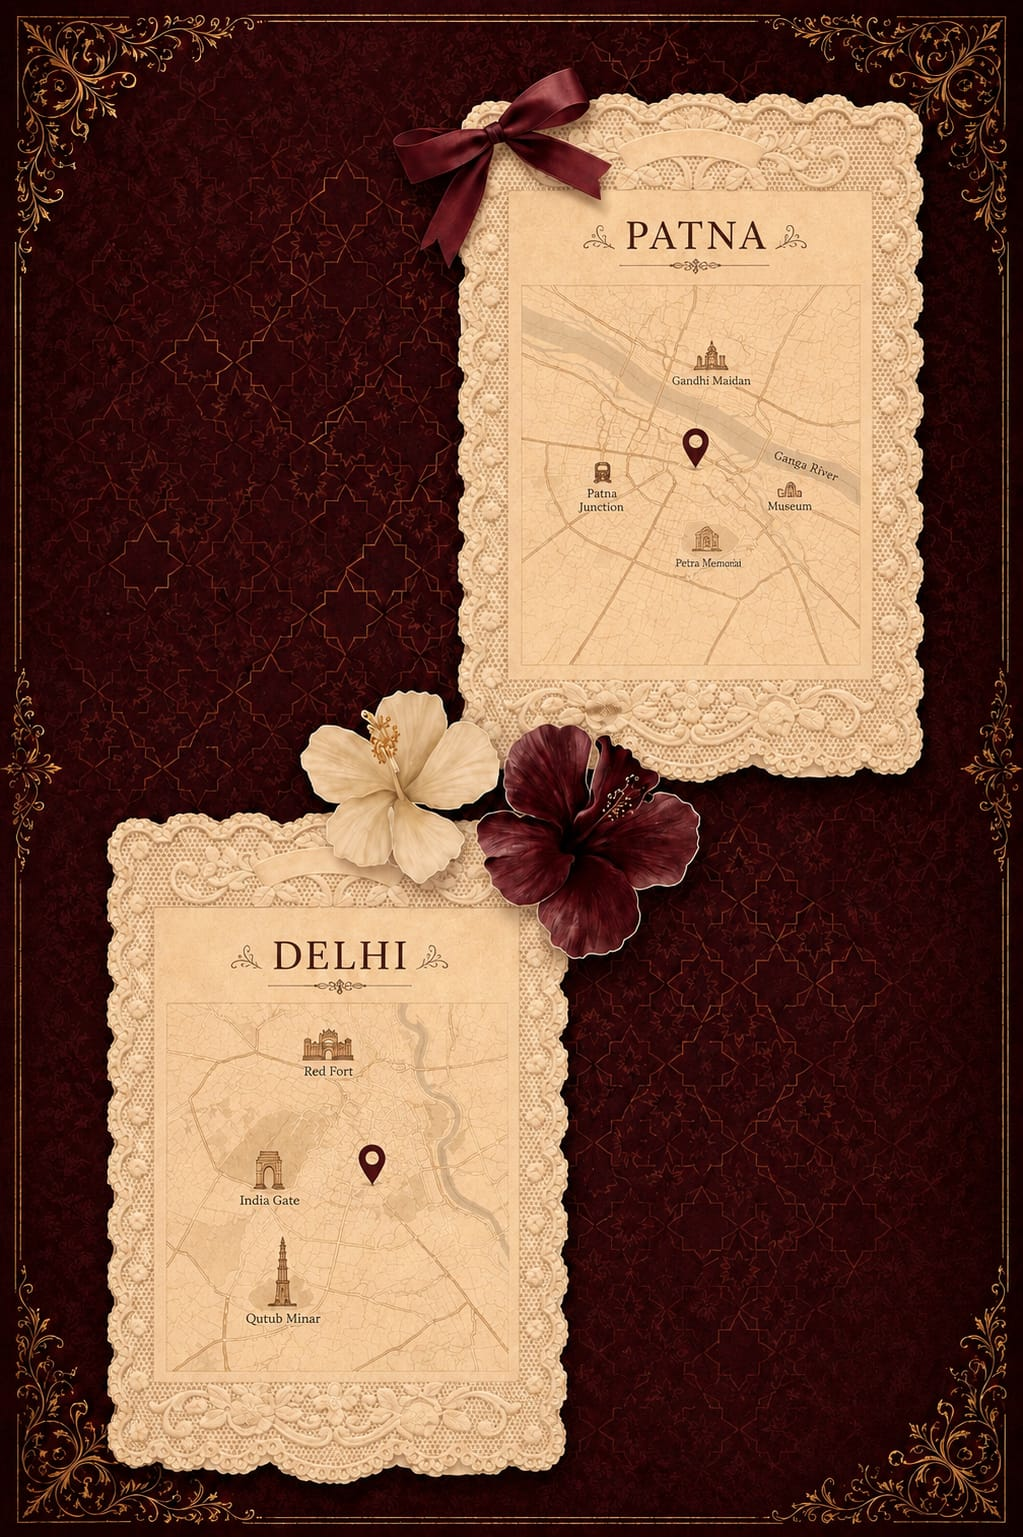
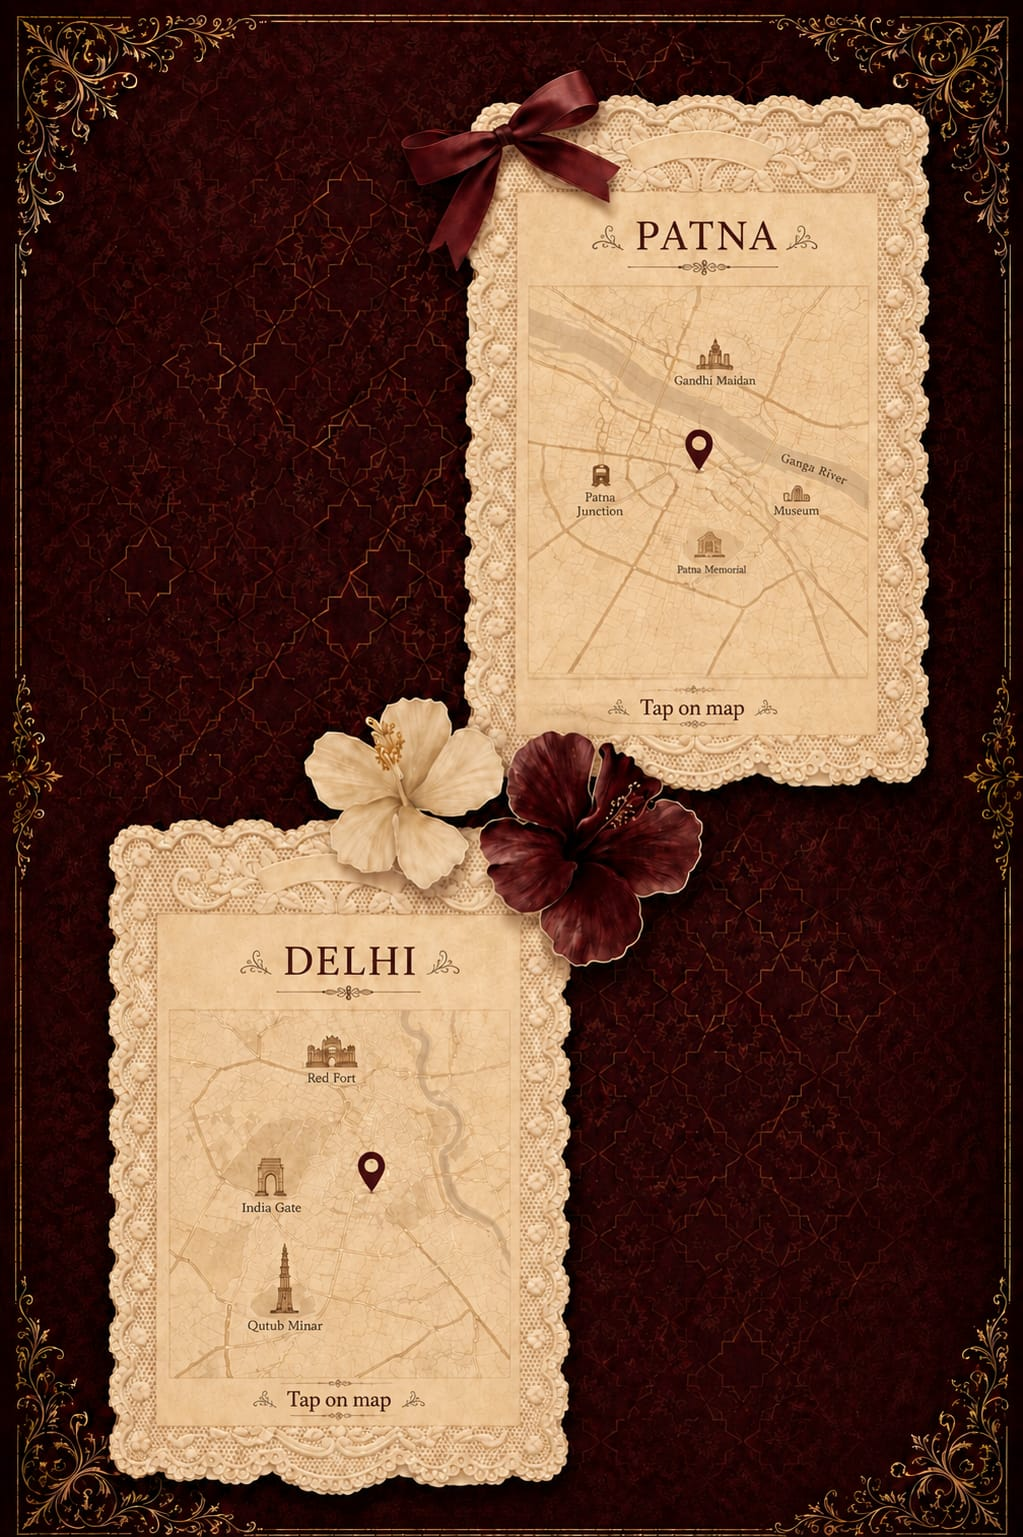
updated invitation website

diff --git a/invitation.html b/invitation.html
@@ -4,6 +4,7 @@
 <meta charset="UTF-8">
 <meta name="viewport" content="width=device-width, initial-scale=1.0, viewport-fit=cover">
 <title>Osama & Sana | The Celebrations</title>
+<link href="https://fonts.googleapis.com/css2?family=Cinzel:wght@400;600&display=swap" rel="stylesheet">
 <style>
   *{box-sizing:border-box; margin:0; padding:0;}
   html,body{ width:100%; background:#1c0306; }
@@ -38,7 +39,6 @@
   }
   .hot:active{ background:rgba(227,201,138,.12); }
 
-  /* city maps (Patna & Delhi) — tap zones over each lace-framed card */
   #linkPatna{
     left:44.97%;
     width:45.94%;
@@ -54,7 +54,6 @@
     border-radius:18px;
   }
 
-  /* back button to return to the hero page */
   #backHome{
     position:fixed;
     top:16px;
@@ -76,7 +75,6 @@
   }
   #backHome:focus-visible{ outline:2px solid #e3c98a; outline-offset:3px; }
 
-  /* back-to-top control, appears once scrolled down */
   #backTop{
     position:fixed;
     right:16px;
@@ -100,63 +98,141 @@
   }
   #backTop.show{ opacity:1; pointer-events:auto; }
   #backTop:focus-visible{ outline:2px solid #e3c98a; outline-offset:3px; }
+
+  /* ── each number pinned to the center of its own box ── */
+  .cd-num {
+    position: absolute;
+    font-family: 'Cinzel', serif;
+    font-weight: 600;
+    font-size: clamp(18px, 12vw, 60px);
+    color: #3b1505;
+    line-height: 1;
+    transition: opacity .15s ease;
+    transform: translate(-50%, -50%);
+    pointer-events: none;
+  }
+  .cd-num.flip { opacity: 0.2; }
+
+  /* adjust top/left to hit exact center of each golden box */
+  #cd-days  { top: 84%; left: 24%; }
+  #cd-hours { top: 84%; left: 41%; }
+  #cd-mins  { top: 84%; left: 56%; }
+  #cd-secs  { top: 84%; left: 73%; }
 </style>
 </head>
 <body>
 
   <a id="backHome" href="index.html" aria-label="Back to start">‹</a>
 
-  <!-- Osama & Sana / Nikah & Walima dates -->
+  <!-- Slide 1: Intro -->
   <div class="shot" id="intro">
     <img src="assets/intro.jpg" alt="Osama and Sana — Nikah 11th November 2026, Walima 15th November 2026">
   </div>
 
-  <!-- Nikah & Walima full details -->
+  <!-- Slide 2: Celebrations -->
   <div class="shot" id="celebrations">
     <img src="assets/celebrations.jpg" alt="Nikah and Walima ceremony details, dates, times and venue">
   </div>
 
-  <!-- City maps — Patna & Delhi -->
+  <!-- Slide 3: City Maps -->
   <div class="shot" id="cityMaps">
     <img src="assets/citymaps.jpg" alt="Illustrated maps of Patna and Delhi">
     <a class="hot" id="linkPatna" href="#" target="_blank" rel="noopener" aria-label="Open Patna location in Google Maps"></a>
     <a class="hot" id="linkDelhi" href="#" target="_blank" rel="noopener" aria-label="Open Delhi location in Google Maps"></a>
   </div>
 
-  <!-- Closing note -->
+  <!-- Slide 4: Countdown — numbers go inside the 4 golden boxes -->
   <div class="shot" id="closing">
-    <img src="assets/closing.jpg" alt="Waiting for your gracious presence — join us in our celebration, with best compliments from family, relatives and friends">
+    <img src="assets/countdown.jpg" alt="Waiting for your gracious presence — Until we say Qubool Hai">
+    <span class="cd-num" id="cd-days">--</span>
+    <span class="cd-num" id="cd-hours">--</span>
+    <span class="cd-num" id="cd-mins">--</span>
+    <span class="cd-num" id="cd-secs">--</span>
+  </div>
+
+  <!-- Slide 5: Quranic verse -->
+  <div class="shot" id="lastSlide">
+    <img src="assets/last.jpg" alt="Surah Al-A'raf 7:189 — It is He who created you from one soul and created from it its mate">
   </div>
 
   <button id="backTop" type="button" aria-label="Back to top">↑</button>
 
 <script>
   (function(){
+
+    /* ── maps ── */
     var address = "The Crown Banquet Hall & Hotel, Khagaul – Phulwari Sharif Road, near BMP 16, Lakh, Khagaul, Patna, Bihar 801105";
     var mapsUrl = "https://www.google.com/maps/search/?api=1&query=" + encodeURIComponent(address);
 
     var linkMaps = document.getElementById('linkMaps');
-    if (linkMaps) linkMaps.href = mapsUrl;
+    if(linkMaps) linkMaps.href = mapsUrl;
 
     var linkQR = document.getElementById('linkQR');
-    if (linkQR) linkQR.href = mapsUrl;
+    if(linkQR) linkQR.href = mapsUrl;
 
     var linkDelhi = document.getElementById('linkDelhi');
-    if (linkDelhi) linkDelhi.href = "https://maps.app.goo.gl/q4iDBPgT9Ah7VEGJ7?g_st=ac";
+    if(linkDelhi) linkDelhi.href = "https://maps.app.goo.gl/q4iDBPgT9Ah7VEGJ7?g_st=ac";
 
     var linkPatna = document.getElementById('linkPatna');
-    if (linkPatna) linkPatna.href = "https://maps.app.goo.gl/FPoGwAEcooj1p7ft5?g_st=ac";
+    if(linkPatna) linkPatna.href = "https://maps.app.goo.gl/FPoGwAEcooj1p7ft5?g_st=ac";
 
+    /* ── back to top ── */
     var backTop = document.getElementById('backTop');
-    if (backTop) {
+    if(backTop){
       window.addEventListener('scroll', function(){
         backTop.classList.toggle('show', window.scrollY > 400);
-      }, {passive:true});
-
+      },{passive:true});
       backTop.addEventListener('click', function(){
         window.scrollTo({top:0, behavior:'smooth'});
       });
     }
+
+    /* ── countdown: Nikah 11 November 2026 ── */
+    var TARGET   = new Date('2026-11-11T00:00:00');
+    var elDays   = document.getElementById('cd-days');
+    var elHours  = document.getElementById('cd-hours');
+    var elMins   = document.getElementById('cd-mins');
+    var elSecs   = document.getElementById('cd-secs');
+    var prevSecs = -1;
+
+    function pad(n){ return String(n).padStart(2,'0'); }
+
+    function flash(el){
+      el.classList.add('flip');
+      setTimeout(function(){ el.classList.remove('flip'); }, 150);
+    }
+
+    function tick(){
+      var diff = TARGET - new Date();
+
+      if(diff <= 0){
+        elDays.textContent = elHours.textContent = elMins.textContent = elSecs.textContent = '00';
+        return;
+      }
+
+      var d = Math.floor(diff / 86400000);
+      var h = Math.floor((diff % 86400000) / 3600000);
+      var m = Math.floor((diff % 3600000)  / 60000);
+      var s = Math.floor((diff % 60000)    / 1000);
+
+      if(s !== prevSecs){
+        flash(elSecs);
+        if(s === 59)             flash(elMins);
+        if(s === 59 && m === 59) flash(elHours);
+        if(s === 59 && m === 59 && h === 23) flash(elDays);
+        prevSecs = s;
+      }
+
+      elDays.textContent  = pad(d);
+      elHours.textContent = pad(h);
+      elMins.textContent  = pad(m);
+      elSecs.textContent  = pad(s);
+
+      requestAnimationFrame(tick);
+    }
+
+    tick();
+
   })();
 </script>
 
